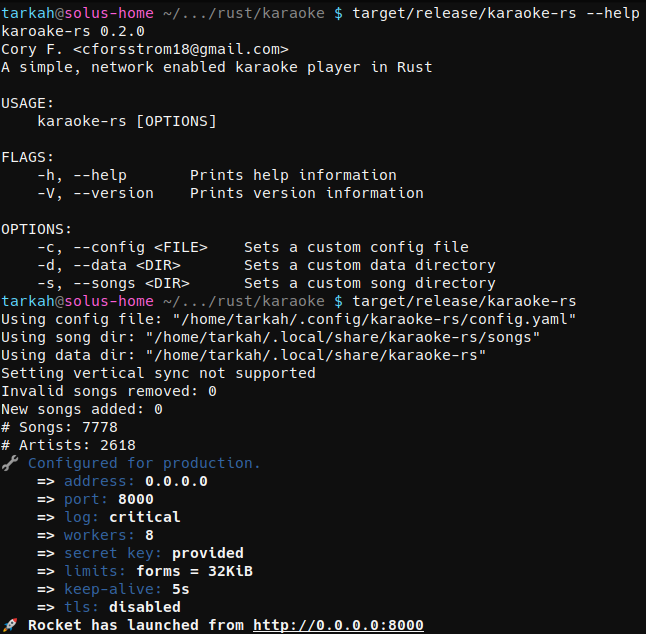
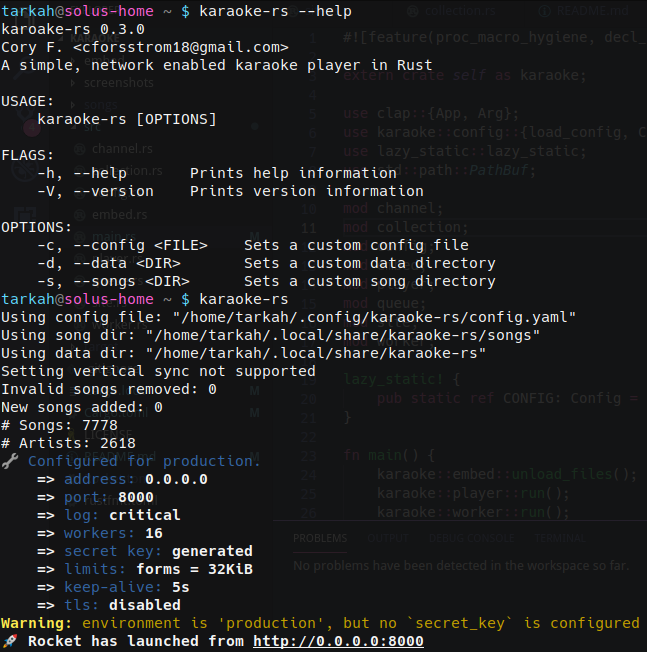
Bump to version 0.3.0
Changes
- Use rust-embed to embed wesbite files into binary. They are unloaded
to the data_path on startup.
- Pickup template files from data_path/templates with Tera and manage
with Rocket instead of using Rockets template fairing for Tera.
- Parallelise computational heavy jobs in processing collection with
Rayon.
- Remove `extern crate` for macros, import with `use` instead

diff --git a/src/main.rs b/src/main.rs
@@ -29,7 +29,7 @@ fn main() {
 
 fn get_config() -> Config {
     let matches = App::new("karoake-rs")
-        .version("0.2.0")
+        .version("0.3.0")
         .author("Cory F. <cforsstrom18@gmail.com>")
         .about("A simple, network enabled karaoke player in Rust")
         .arg(

diff --git a/README.md b/README.md
@@ -6,16 +6,16 @@ Your karaoke collection can be browsed and queued to the player from a self serv
 
 ## Setup
 - Install SFML and CSFML bindings to run, required by rust-sfml -- see [link to help setup](https://github.com/jeremyletang/rust-sfml/wiki/Linux)
-- Compile from source -- `cargo build --release`
-- Run binary from source folder -- `target/release/karaoke-rs`. Website template files are not currently bundled with build, so binary must be run from source folder that contains `templates/` and `static/` folders. This is on roadmap to be fixed.
-- Place your song collection at `~/.local/share/karaoke-rs/songs`, or specify location via `target/release/karoake-rs --songs path/to/song/directory`
-- Default configuration file is created at `~/.config/karaoke-rs/config.yaml`. This can be copied / changed and specified via `target/release/karaoke-rs --config path/to/config`
+- Download latest release binary or compile from source -- `cargo build --release`
+- Run `karaoke-rs --help` to see all arguments
+- Place your song collection at `~/.local/share/karaoke-rs/songs`, or specify location via `--songs path/to/song/directory`
+- Default configuration file is created at `~/.config/karaoke-rs/config.yaml`. This can be copied / changed and specified via `--config path/to/config.yaml`
 
 
 ## TODO
 - [x] Finish setting up configuration file, allow specifying song directory and data directory (for collection db file)
 - [x] Allow passing config file location as argument
-- [ ] Bundle website template / static files into build binary, unload them to data path on run, update Rocket to load templates / static files from that path
+- [x] Bundle website template / static files into build binary, unload them to data path on run, update Rocket to load templates / static files from that path
 - [ ] Change collection refresh from on startup to triggered from website
 - [ ] Add some stats to the collection database, such as number of times played, last date listened to, date added, etc.
 - [ ] Setup proper logging and error handling
